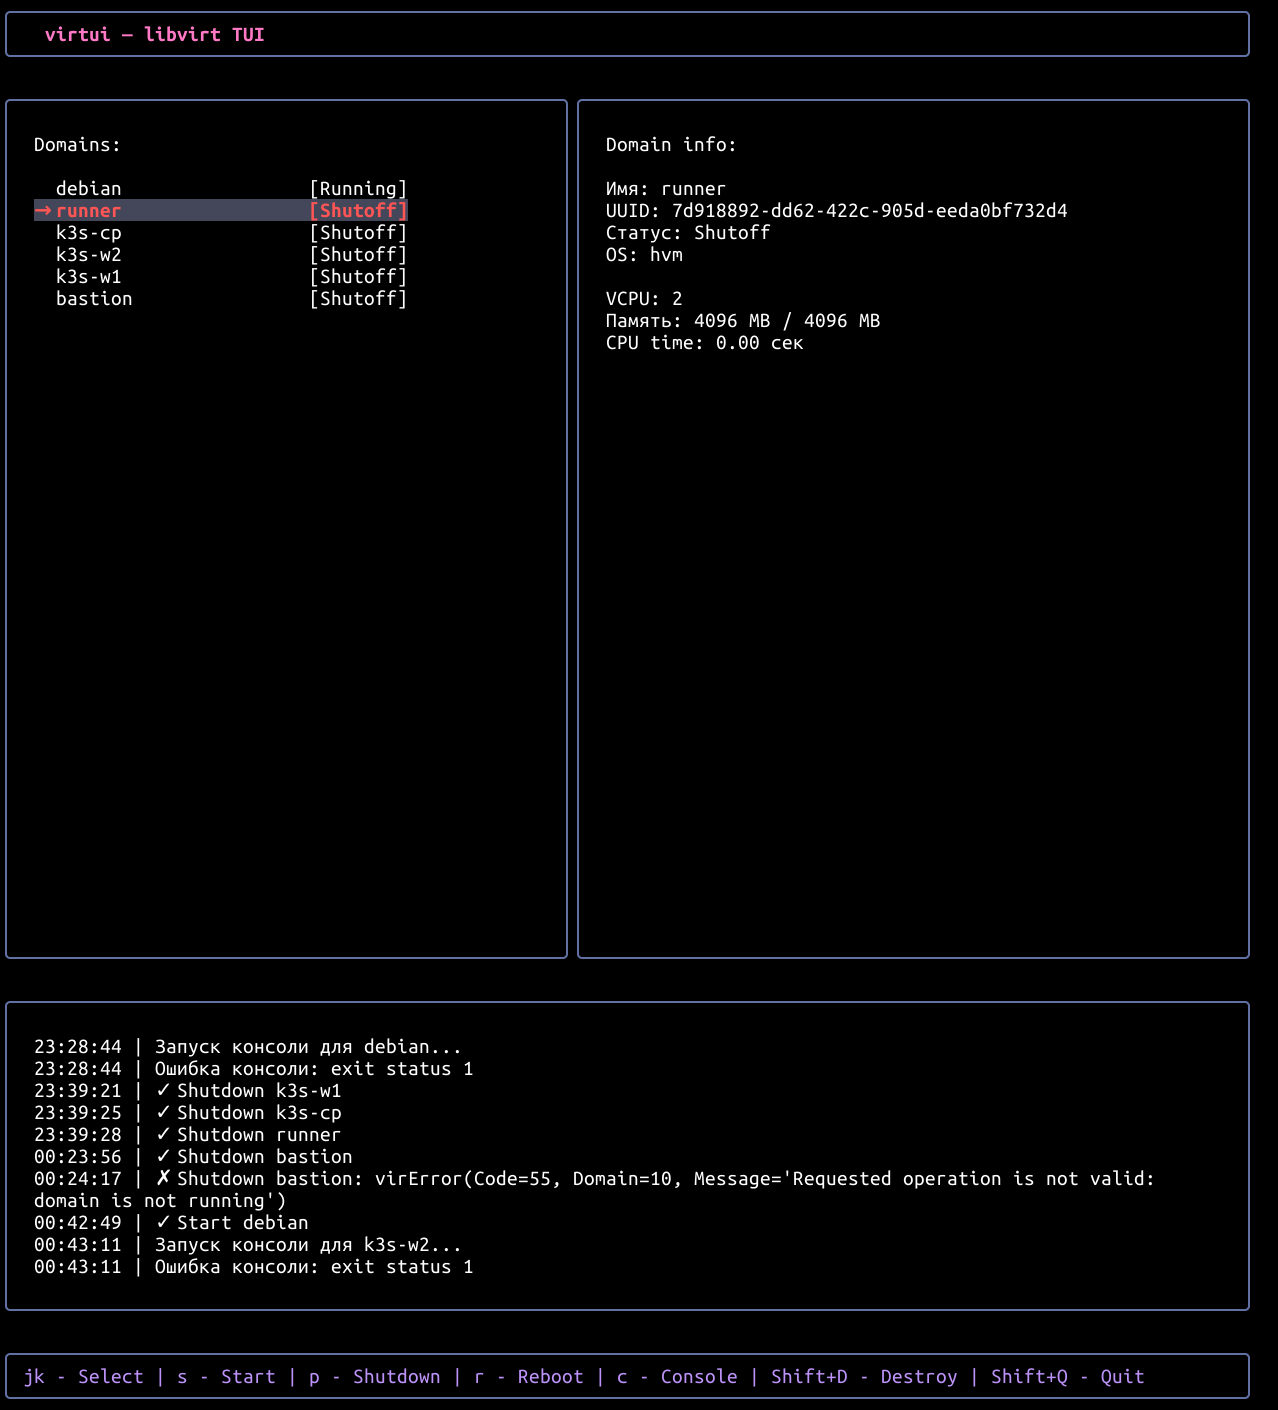
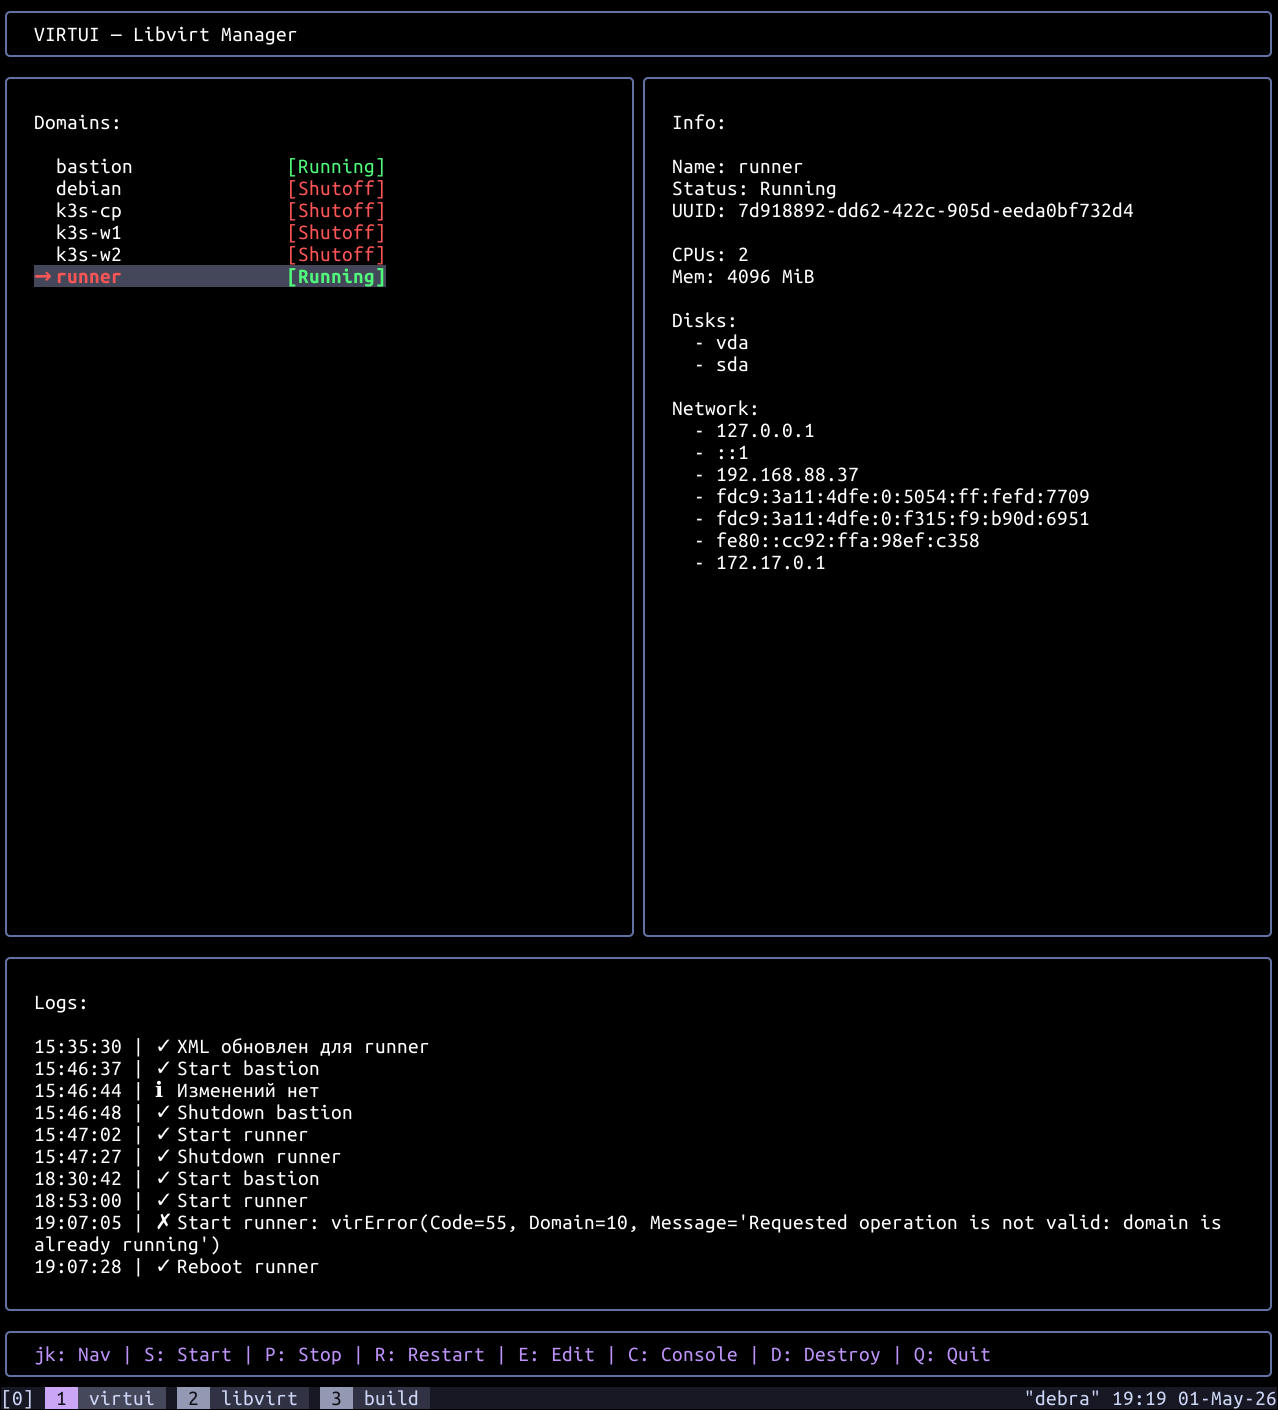
v0.1

diff --git a/internal/tui/app.go b/internal/tui/app.go
@@ -108,7 +108,7 @@ func (a *App) View() string {
 
 	totalWidth := a.width - 2
 	sideWidth := (totalWidth / 2) - 1
-	panelHeight := a.height - 10
+	panelHeight := a.height - 25
 
 	var listLines []string
 	for i, d := range a.domains {
@@ -135,16 +135,48 @@ func (a *App) View() string {
 	var infoStr string
 	if len(a.domains) > 0 && a.cursor < len(a.domains) {
 		d := a.domains[a.cursor]
-		infoStr = fmt.Sprintf("Name: %s\nStatus: %s\nUUID: %s\nCPUs: %d\nMem: %d MiB", 
-			d.Name, d.Status, d.UUID, d.VCPUs, d.Memory/1024)
+		memStr := fmt.Sprintf("%d MiB", d.Memory/1024)
+
+		disksStr := "None"
+		if len(d.Disks) > 0 {
+			var ds []string
+			for _, disk := range d.Disks {
+				ds = append(ds, "  - "+disk)
+			}
+			disksStr = strings.Join(ds, "\n")
+		}
+
+		ipsStr := "None"
+		if len(d.IPs) > 0 {
+			var is []string
+			for _, ip := range d.IPs {
+				is = append(is, "  - "+ip)
+			}
+			ipsStr = strings.Join(is, "\n")
+		}
+
+		infoStr = fmt.Sprintf("Name: %s\nStatus: %s\nUUID: %s\n\nCPUs: %d\nMem: %s\n\nDisks:\n%s\n\nNetwork:\n%s",
+			d.Name, d.Status, d.UUID, d.VCPUs, memStr, disksStr, ipsStr)
 	}
+
 	rightPanel := panelStyle.Width(sideWidth).Height(panelHeight).Render("Info:\n\n" + infoStr)
 
 	header := headerStyle.Width(totalWidth).Render(" VIRTUI — Libvirt Manager")
 	mainArea := lipgloss.JoinHorizontal(lipgloss.Top, leftPanel, rightPanel)
-	footer := footerStyle.Width(totalWidth).Render(" jk:Nav | S: Start | P: Stop | E: Edit | C: Console | D:Destroy | Q:Quit")
 
-	res := "\n" + header + "\n" + mainArea + "\n" + footer
+	logContent := wrapLogLines(a.logs, totalWidth-4)
+		if len(a.logs) > 10 {
+			logContent = strings.Join(a.logs[len(a.logs)-10:], "\n")
+		}
+
+	logsPanel := panelStyle.
+		Width(totalWidth).
+		Height(10).
+		Render("Logs:\n\n" + logContent)
+
+	footer := footerStyle.Width(totalWidth).Render(" jk: Nav | S: Start | P: Stop | R: Restart | E: Edit | C: Console | D: Destroy | Q: Quit")
+
+	res := "\n" + header + "\n" + mainArea + "\n" + logsPanel + "\n" + footer
 	if a.confirming {
 		res += "\n" + errorStyle.Render(" !! DESTROY? (Y - да) !!")
 	}

diff --git a/internal/libvirt/client.go b/internal/libvirt/client.go
@@ -3,6 +3,8 @@ package libvirt
 
 import (
 	"fmt"
+	"regexp"
+	"strings"
 
 	lv "libvirt.org/go/libvirt"
 )
@@ -31,11 +33,12 @@ type DomainInfo struct {
 	Name      string
 	Status    string
 	UUID      string
-	OS        string
 	CPU       uint64
 	Memory    uint64
 	MaxMemory uint64
 	VCPUs     uint
+	Disks     []string
+	IPs       []string
 }
 
 func (c *Client) ListDomains() ([]DomainInfo, error) {
@@ -48,9 +51,6 @@ func (c *Client) ListDomains() ([]DomainInfo, error) {
 	for _, d := range doms {
 		name, _ := d.GetName()
 		uuid, _ := d.GetUUIDString()
-
-		// OS type
-		osType, _ := d.GetOSType()
 
 		state, _, _ := d.GetState()
 		status := "Unknown"
@@ -69,15 +69,42 @@ func (c *Client) ListDomains() ([]DomainInfo, error) {
 
 		info, _ := d.GetInfo()
 
+		xml, _ := d.GetXMLDesc(0)
+		var disks []string
+		diskMatches := regexp.MustCompile(`<target dev=['"]([^'"]+)['"]`).FindAllStringSubmatch(xml, -1)
+		for _, m := range diskMatches {
+			if len(m) > 1 {
+				dev := m[1]
+				if !strings.HasPrefix(dev, "vnet") {
+					disks = append(disks, dev)
+				}
+			}
+		}
+
+		var ips []string
+		if status == "Running" {
+			ifaces, err := d.ListAllInterfaceAddresses(lv.DOMAIN_INTERFACE_ADDRESSES_SRC_AGENT)
+			if err == nil {
+				for _, iface := range ifaces {
+					for _, addr := range iface.Addrs {
+						if addr.Type == lv.IP_ADDR_TYPE_IPV4 || addr.Type == lv.IP_ADDR_TYPE_IPV6 {
+							ips = append(ips, addr.Addr)
+						}
+					}
+				}
+			}
+		}
+
 		domains = append(domains, DomainInfo{
 			Name:      name,
 			Status:    status,
 			UUID:      uuid,
-			OS:        osType,
 			CPU:       info.CpuTime,
 			Memory:    info.Memory,
 			MaxMemory: info.MaxMem,
 			VCPUs:     info.NrVirtCpu,
+			Disks:     disks,
+			IPs:       ips,
 		})
 		d.Free()
 	}

diff --git a/internal/tui/actions.go b/internal/tui/actions.go
@@ -31,7 +31,6 @@ func (a *App) refresh() tea.Cmd {
 			return errMsg{err}
 		}
 
-		// Сортировка строго по алфавиту
 		sort.Slice(domains, func(i, j int) bool {
 			return domains[i].Name < domains[j].Name
 		})